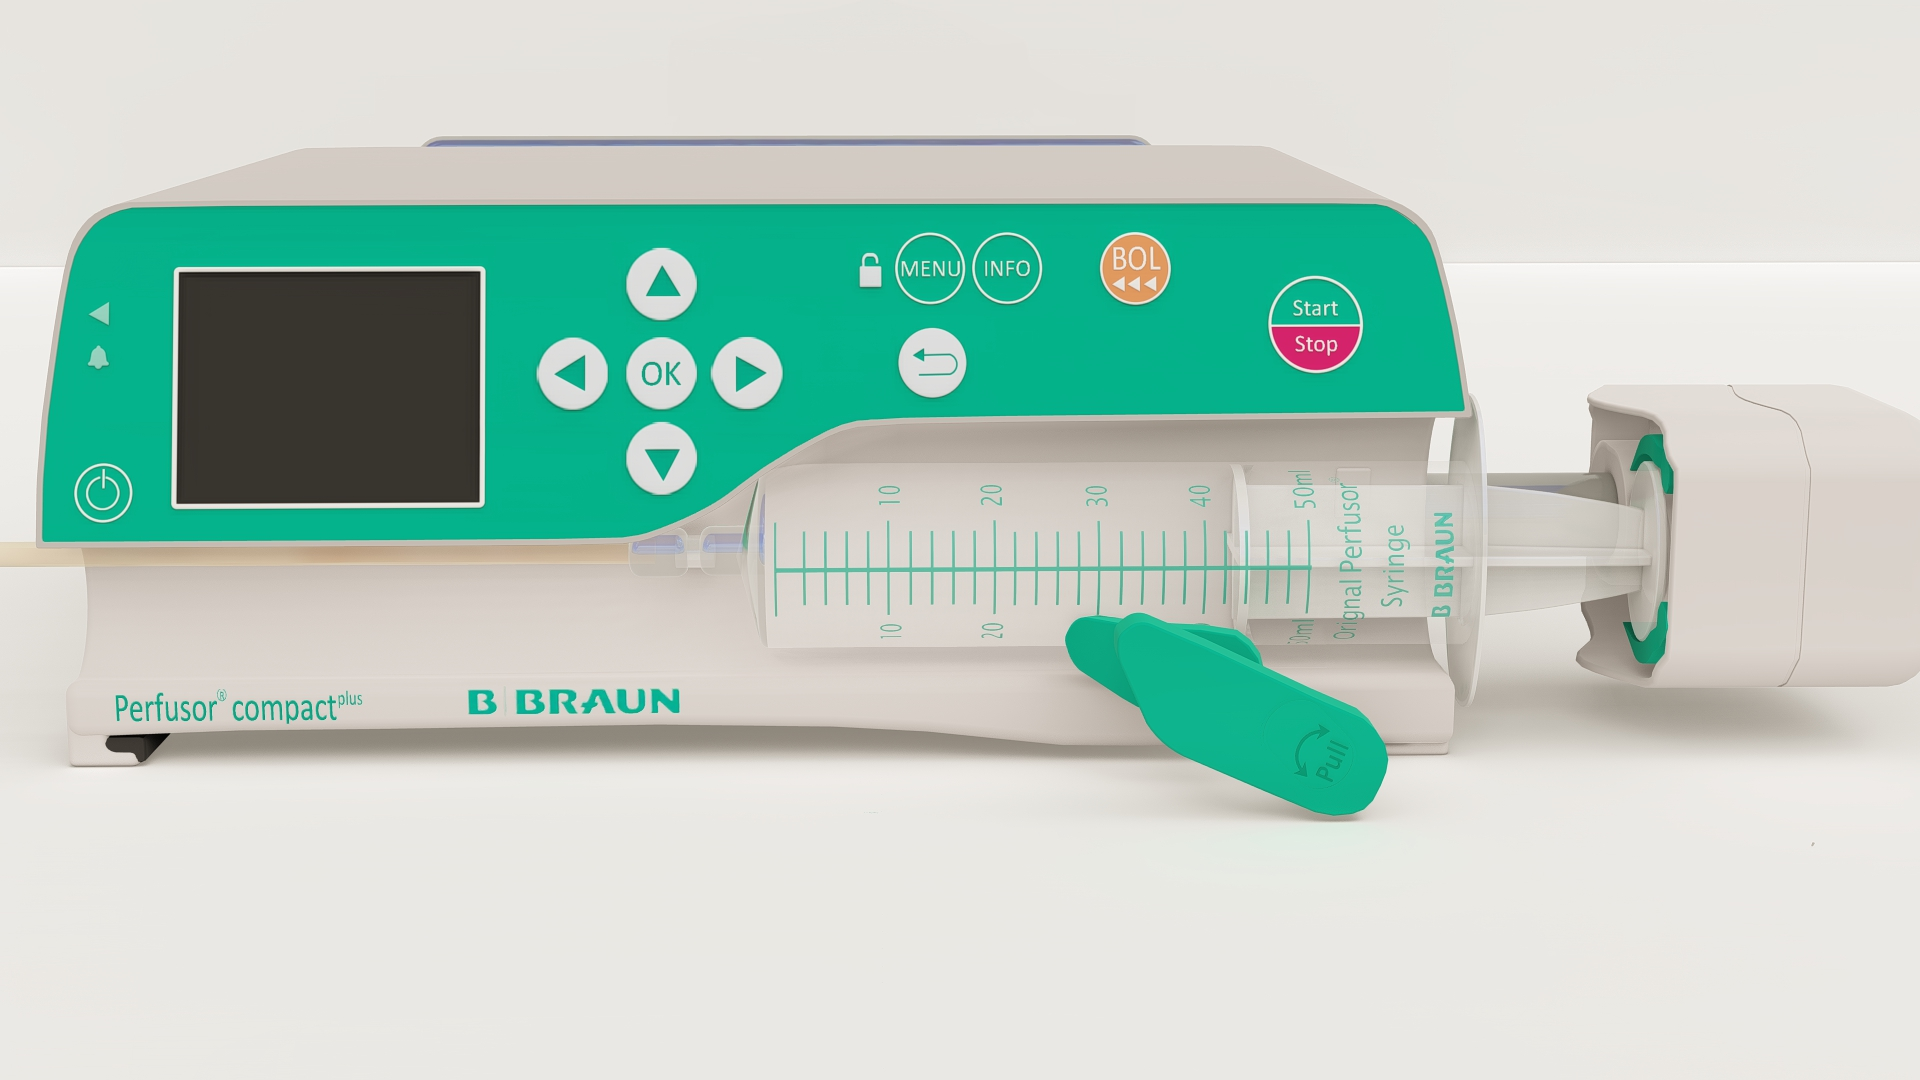
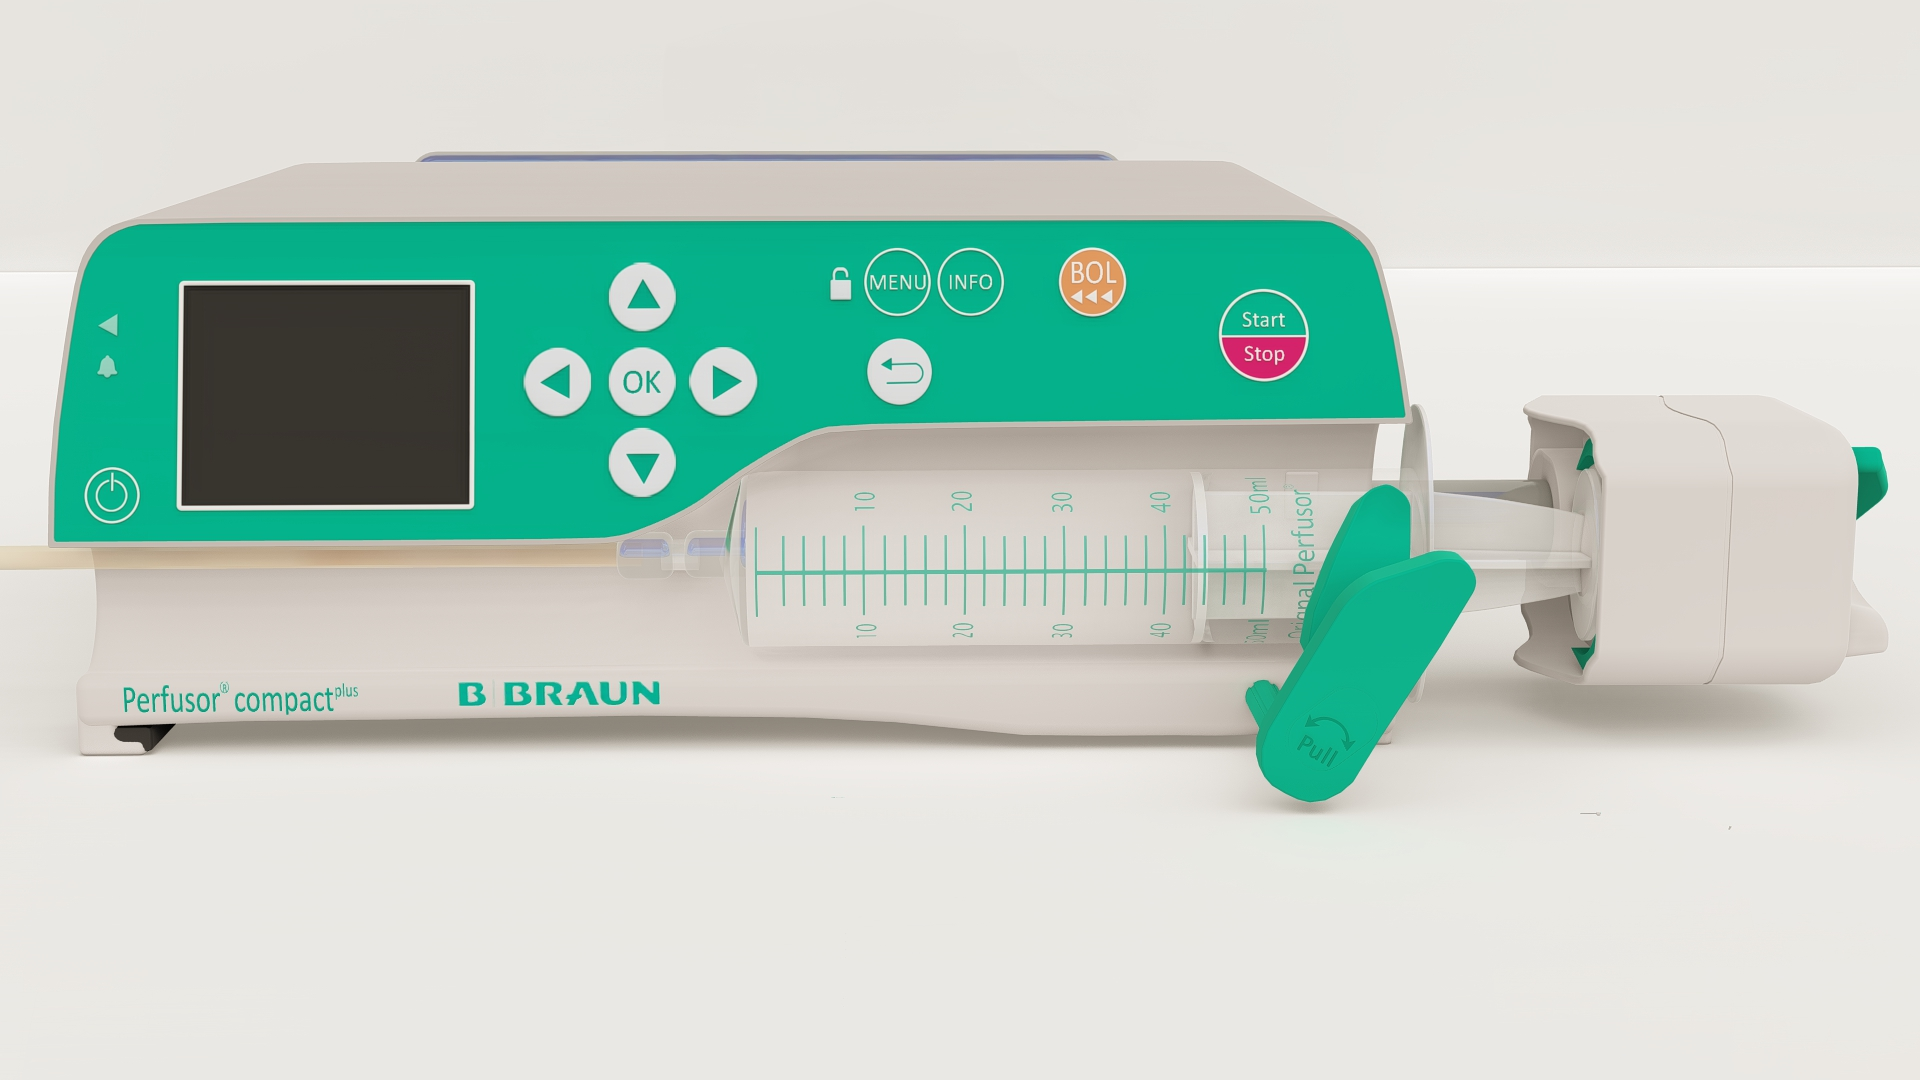
adjusted the position of the display and replaced the background image

diff --git a/src/component/video/video.js b/src/component/video/video.js
@@ -82,7 +82,7 @@ const Videoplay = () => {
           className={`image-button ${activeButton === 3 ? 'active' : ''}`}
           style={{'position': 'absolute',
           'left': '4%',
-          'top': '49%',
+          'top': '51%',
           'width': '3%',
           
           'borderRadius': '50%', display: disabledButtons.includes(3) ? 'none' : 'block' }}
@@ -97,7 +97,7 @@ const Videoplay = () => {
           // className={`image-button ${activeButton === 3 ? 'active' : ''}`}
           style={{'position': 'absolute',
           'left': '4%',
-          'top': '49%',
+          'top': '51%',
           'backgroundColor': 'transparent',
           'color': 'transparent',
           'border':'0',
@@ -113,8 +113,9 @@ const Videoplay = () => {
           disabled={disabledButtons.includes(4)}
           className={`image-button ${activeButton === 4 ? 'active' : ''}`}
           style={{'position': 'absolute',
-          'left': '33%',
-          'top': '36%',
+          'left': '32%',
+          'top': '38%',
+        
           'width': '3%',
           'borderRadius': '50%', display: disabledButtons.includes(4) ? 'none' : 'block' }}
         >
@@ -125,8 +126,8 @@ const Videoplay = () => {
           disabled={disabledButtons.includes(5)}
           className={`image-button ${activeButton === 5 ? 'active' : ''}`}
           style={{'position': 'absolute',
-          'left': '33%',
-          'top': '36%',
+          'left': '32%',
+          'top': '38%',
           'width': '3%',
           'borderRadius': '50%', display: disabledButtons.includes(5) ? 'none' : 'block' }}
         >
@@ -138,8 +139,8 @@ const Videoplay = () => {
           disabled={disabledButtons.includes(6)}
           className={`image-button ${activeButton === 5 ? 'active' : ''}`}
           style={{'position': 'absolute',
-          'left': '33%',
-          'top': '36%',
+          'left': '32%',
+          'top': '38%',
           'width': '3%',
           'borderRadius': '50%', display: disabledButtons.includes(6) ? 'none' : 'block' }}
         >

diff --git a/src/component/video/videoplay.css b/src/component/video/videoplay.css
@@ -13,7 +13,7 @@ body {
     width: 246px;
     height: 254px;
     left: 9.1%;
-    top: 29.2%;
+    top: 29.7%;
 
     /* background-image: url(./assets/images/Group\ 2.png); */
     background-repeat: no-repeat;
@@ -32,11 +32,11 @@ body {
     /* width: 99px;
   height: 17px; */
     left: 31%;
-    top: -5%;
+    top: -3%;
     font-family: 'Inter';
     font-style: normal;
     font-weight: 600;
-    font-size: 12px;
+    font-size: 13px;
     line-height: 17px;
     color: #000000;
     color: #000000;
@@ -47,11 +47,11 @@ body {
     /* width: 99px;
   height: 17px; */
     left: 45%;
-    top: -5%;
+    top: -3%;
     font-family: 'Inter';
     font-style: normal;
     font-weight: 600;
-    font-size: 17px;
+    font-size: 14px;
     line-height: 17px;
     color: #000000;
     color: #000000;

diff --git a/src/component/tabs/tabs.css b/src/component/tabs/tabs.css
@@ -13,7 +13,7 @@ body {
     width: 246px;
     height: 254px;
     left: 9.1%;
-    top: 29.2%;
+    top: 29.7%;
 
     /* background-image: url('./assets/images/Group\ 2.png'); */
     background-repeat: no-repeat;

diff --git a/src/component/meters/meter.css b/src/component/meters/meter.css
@@ -13,7 +13,7 @@ body {
     width: 246px;
     height: 254px;
     left: 9.1%;
-    top: 29.2%;
+    top: 29.7%;
 
     /* background-image: url(./assets/images/Group\ 2.png); */
     background-repeat: no-repeat;

diff --git a/src/App.css b/src/App.css
@@ -14,7 +14,7 @@ body{
   width: 246px;
   height: 254px;
   left: 9.1%;
-  top: 29.2%;
+  top: 29.7%;
 
   /* background-image: url('./assets/images/Group\ 2.png'); */
   background-repeat: no-repeat;
